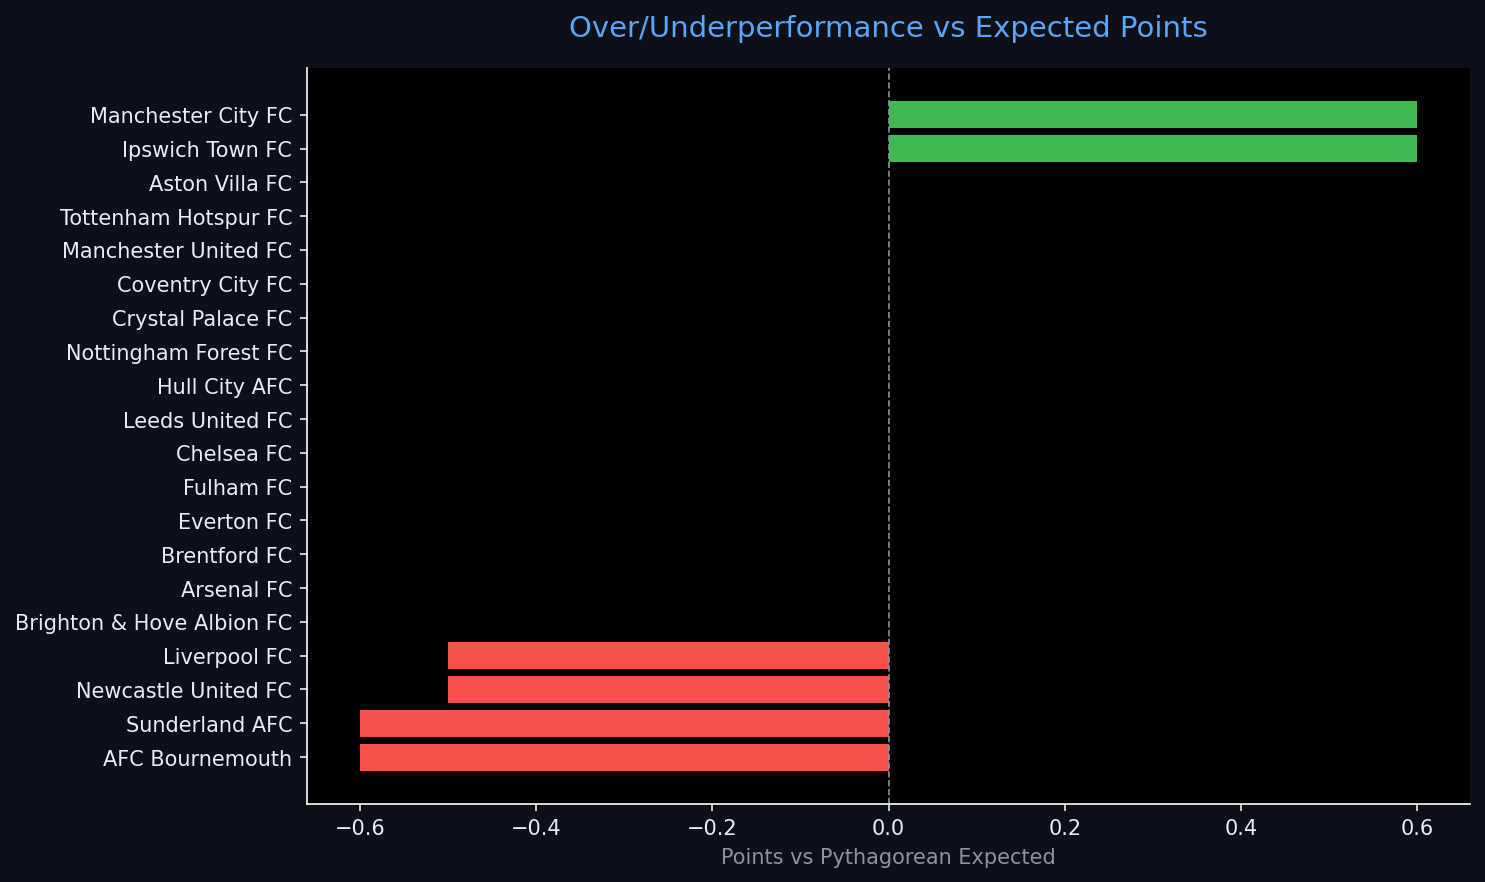
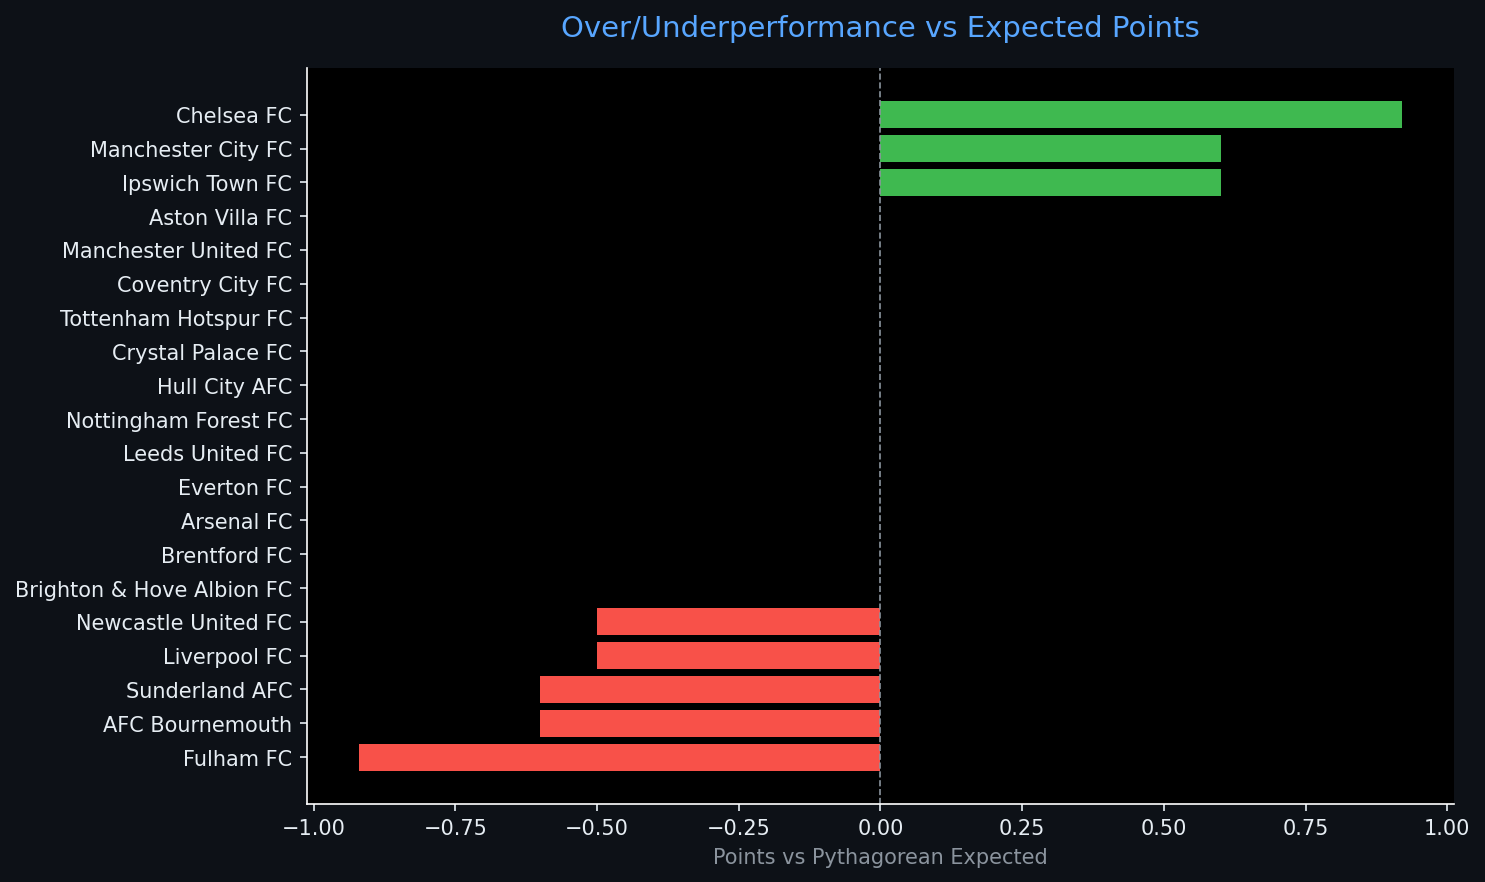
Automated ETL data update: 2026-08-24 20:21

diff --git a/reports/pipeline_report.html b/reports/pipeline_report.html
@@ -4,7 +4,7 @@
 <head>
     <meta charset="UTF-8">
     <meta name="viewport" content="width=device-width, initial-scale=1.0">
-    <title>Sports Data Pipeline Report — 2026-08-24 18:29</title>
+    <title>Sports Data Pipeline Report — 2026-08-24 20:21</title>
     <style>
         body { font-family: 'Segoe UI', sans-serif; background: #0d1117; color: #e6edf3; margin: 0; padding: 2rem; }
         h1   { color: #58a6ff; border-bottom: 1px solid #30363d; padding-bottom: 0.5rem; }
@@ -20,7 +20,7 @@
 </head>
 <body>
     <h1>⚽ Sports Data Pipeline — Automated Report</h1>
-    <p class="meta">Generated: 2026-08-24 18:29 UTC &nbsp;|&nbsp; Sport: <strong>football</strong> &nbsp;|&nbsp; Rows: <strong>20</strong></p>
+    <p class="meta">Generated: 2026-08-24 20:21 UTC &nbsp;|&nbsp; Sport: <strong>football</strong> &nbsp;|&nbsp; Rows: <strong>20</strong></p>
     <span class="badge">Pipeline v1.0.0</span>
     <h2>📊 Data Table</h2>
     <table class="dataframe data-table">
@@ -119,6 +119,21 @@
     </tr>
     <tr>
       <td>6</td>
+      <td>Chelsea FC</td>
+      <td>1</td>
+      <td>3</td>
+      <td>1</td>
+      <td>0</td>
+      <td>0</td>
+      <td>3</td>
+      <td>2</td>
+      <td>1.000</td>
+      <td>3.000</td>
+      <td>0.692</td>
+      <td>NaN</td>
+    </tr>
+    <tr>
+      <td>7</td>
       <td>Ipswich Town FC</td>
       <td>1</td>
       <td>3</td>
@@ -133,7 +148,7 @@
       <td>NaN</td>
     </tr>
     <tr>
-      <td>6</td>
+      <td>7</td>
       <td>Manchester City FC</td>
       <td>1</td>
       <td>3</td>
@@ -148,7 +163,7 @@
       <td>NaN</td>
     </tr>
     <tr>
-      <td>8</td>
+      <td>9</td>
       <td>Leeds United FC</td>
       <td>1</td>
       <td>3</td>
@@ -163,7 +178,7 @@
       <td>NaN</td>
     </tr>
     <tr>
-      <td>9</td>
+      <td>10</td>
       <td>Liverpool FC</td>
       <td>1</td>
       <td>1</td>
@@ -178,7 +193,7 @@
       <td>NaN</td>
     </tr>
     <tr>
-      <td>9</td>
+      <td>10</td>
       <td>Newcastle United FC</td>
       <td>1</td>
       <td>1</td>
@@ -193,33 +208,18 @@
       <td>NaN</td>
     </tr>
     <tr>
-      <td>11</td>
-      <td>Chelsea FC</td>
-      <td>0</td>
-      <td>0</td>
-      <td>0</td>
-      <td>0</td>
-      <td>0</td>
-      <td>0</td>
-      <td>0</td>
-      <td>0.000</td>
-      <td>0.000</td>
-      <td>0.000</td>
-      <td>NaN</td>
-    </tr>
-    <tr>
-      <td>11</td>
+      <td>12</td>
       <td>Fulham FC</td>
+      <td>1</td>
       <td>0</td>
       <td>0</td>
       <td>0</td>
-      <td>0</td>
-      <td>0</td>
-      <td>0</td>
-      <td>0</td>
+      <td>1</td>
+      <td>2</td>
+      <td>3</td>
       <td>0.000</td>
       <td>0.000</td>
-      <td>0.000</td>
+      <td>0.308</td>
       <td>NaN</td>
     </tr>
     <tr>
@@ -362,7 +362,7 @@
         
         <tr><td>Null Values</td><td>98</td></tr>
         
-        <tr><td>Run Timestamp (UTC)</td><td>2026-08-24T18:29:51.266637</td></tr>
+        <tr><td>Run Timestamp (UTC)</td><td>2026-08-24T20:21:27.352848</td></tr>
         
         <tr><td>ML Features Ready</td><td>False</td></tr>
         
